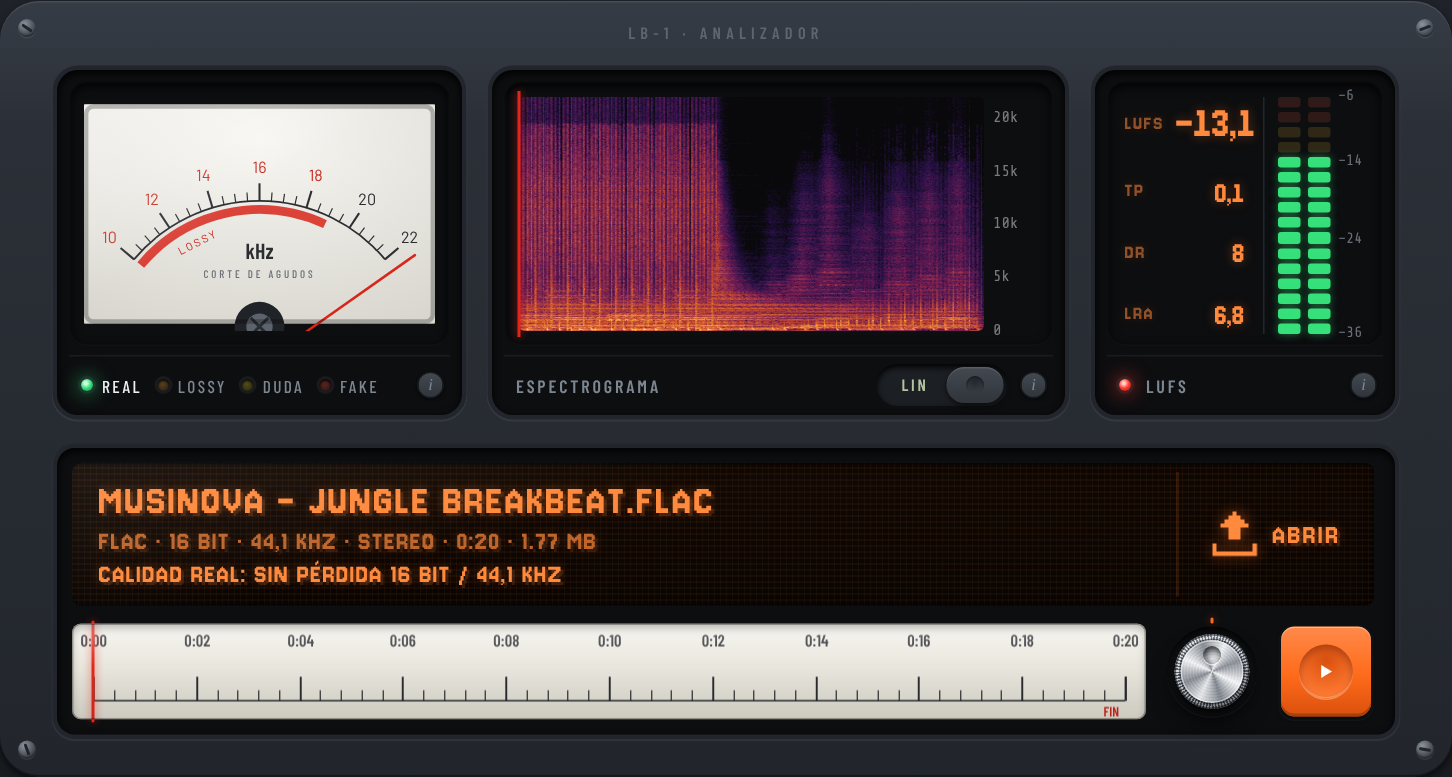
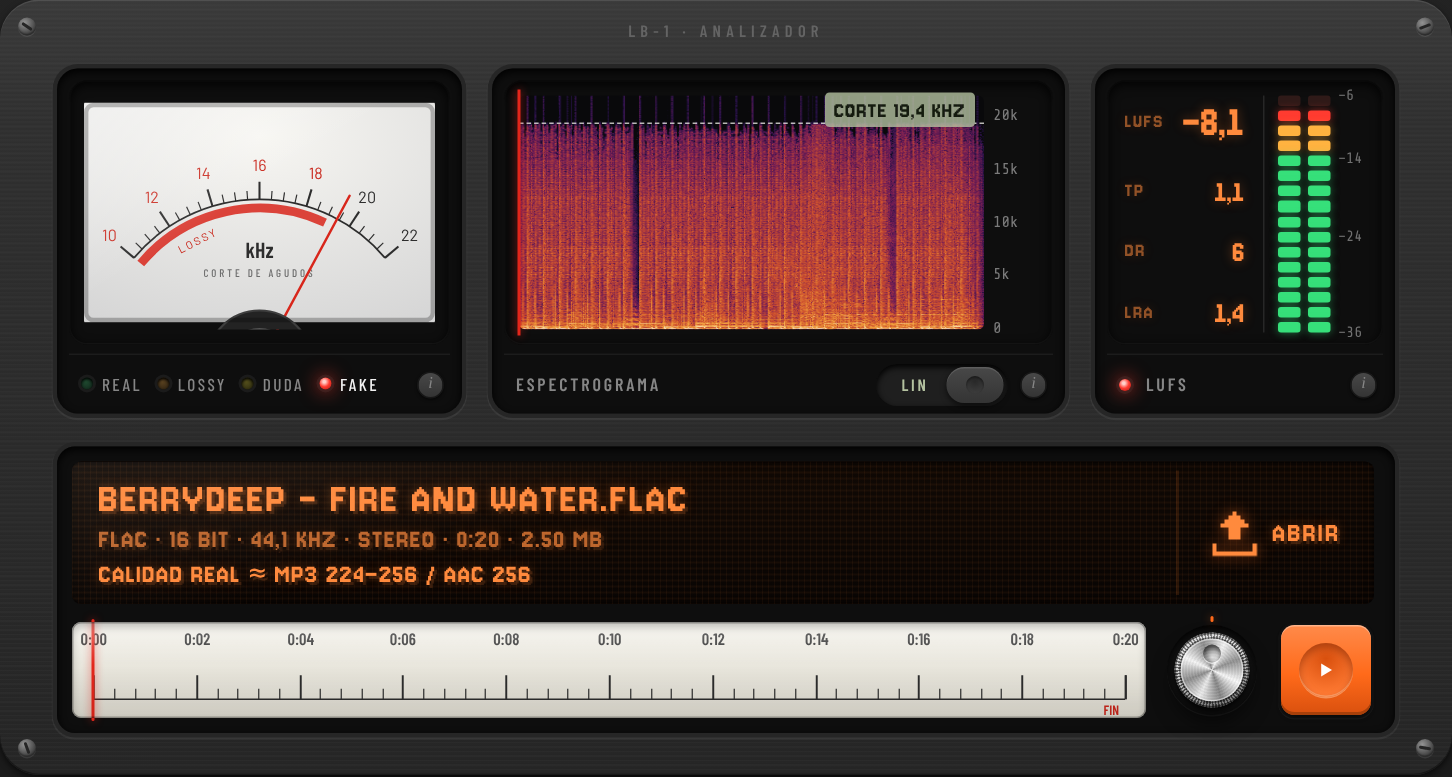
docs: refresh screenshots for the graphite skin
Claude-Session: https://claude.ai/code/session_01Tb8Z1xYg3EBCxtqkoAhzs3

diff --git a/README.md b/README.md
@@ -46,7 +46,7 @@ No frameworks and no bundler; it ships as one HTML file. Every container format 
 src/
 ├── index.html            markup + script order
 ├── assets/               preview track (inlined into dist at build time)
-├── css/                  design tokens (dark/light) and faceplate styles
+├── css/                  design tokens (graphite) and faceplate styles
 ├── vendor/               FFmpeg AAC encoder (WASM), regenerated by tools/vendor-aac.mjs
 └── js/
     ├── core.js           helpers, format matrix, help texts, app state
